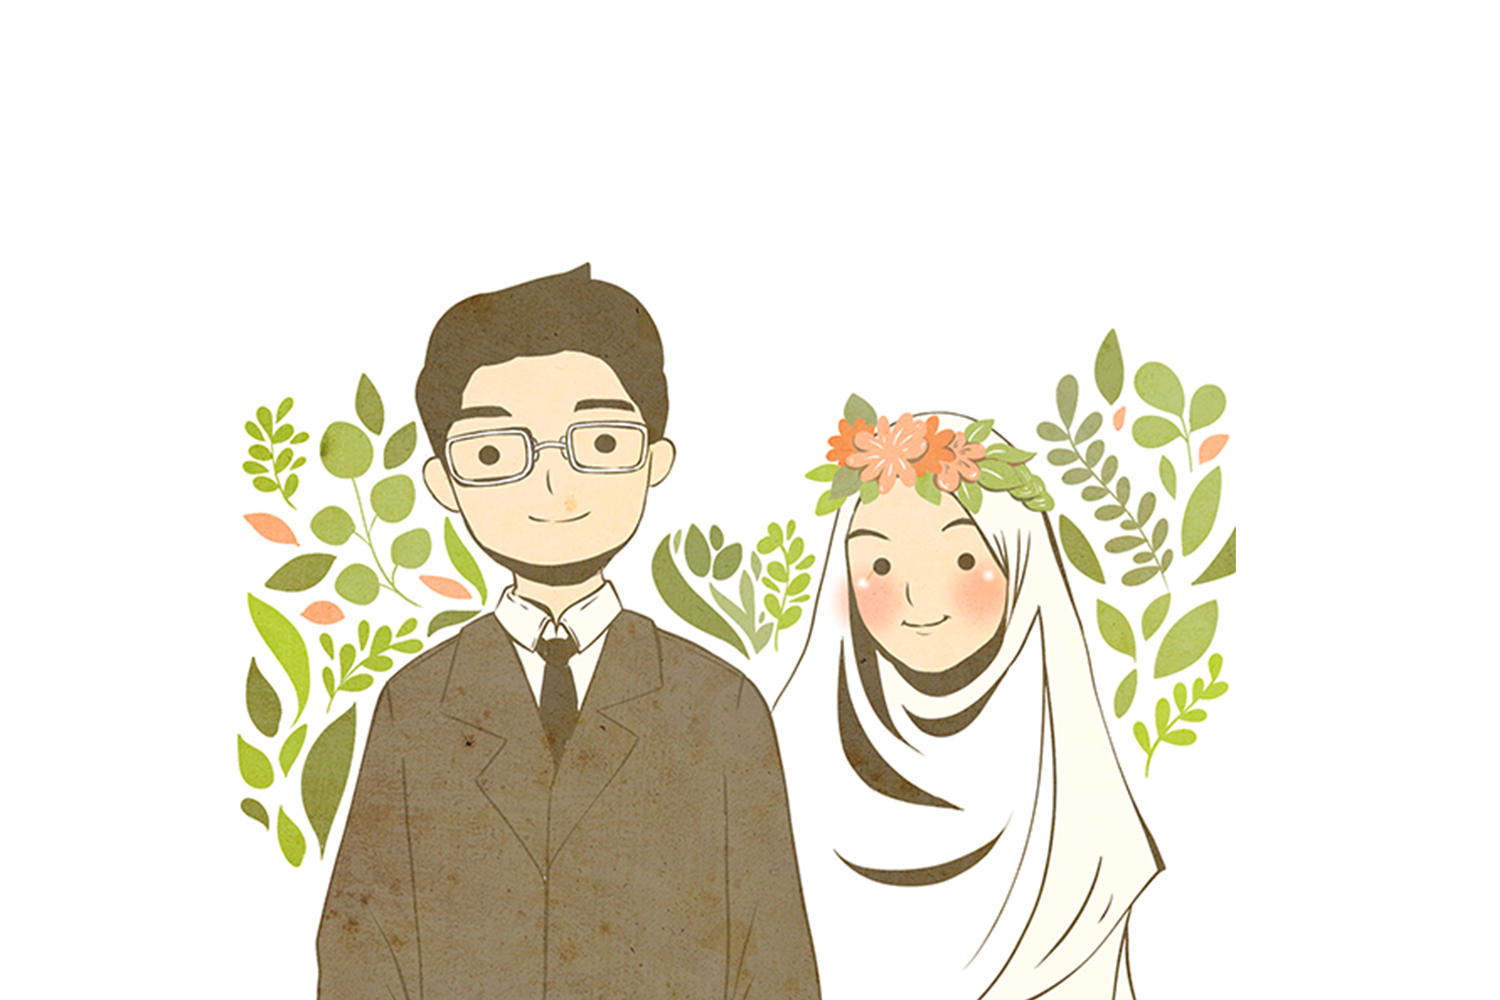
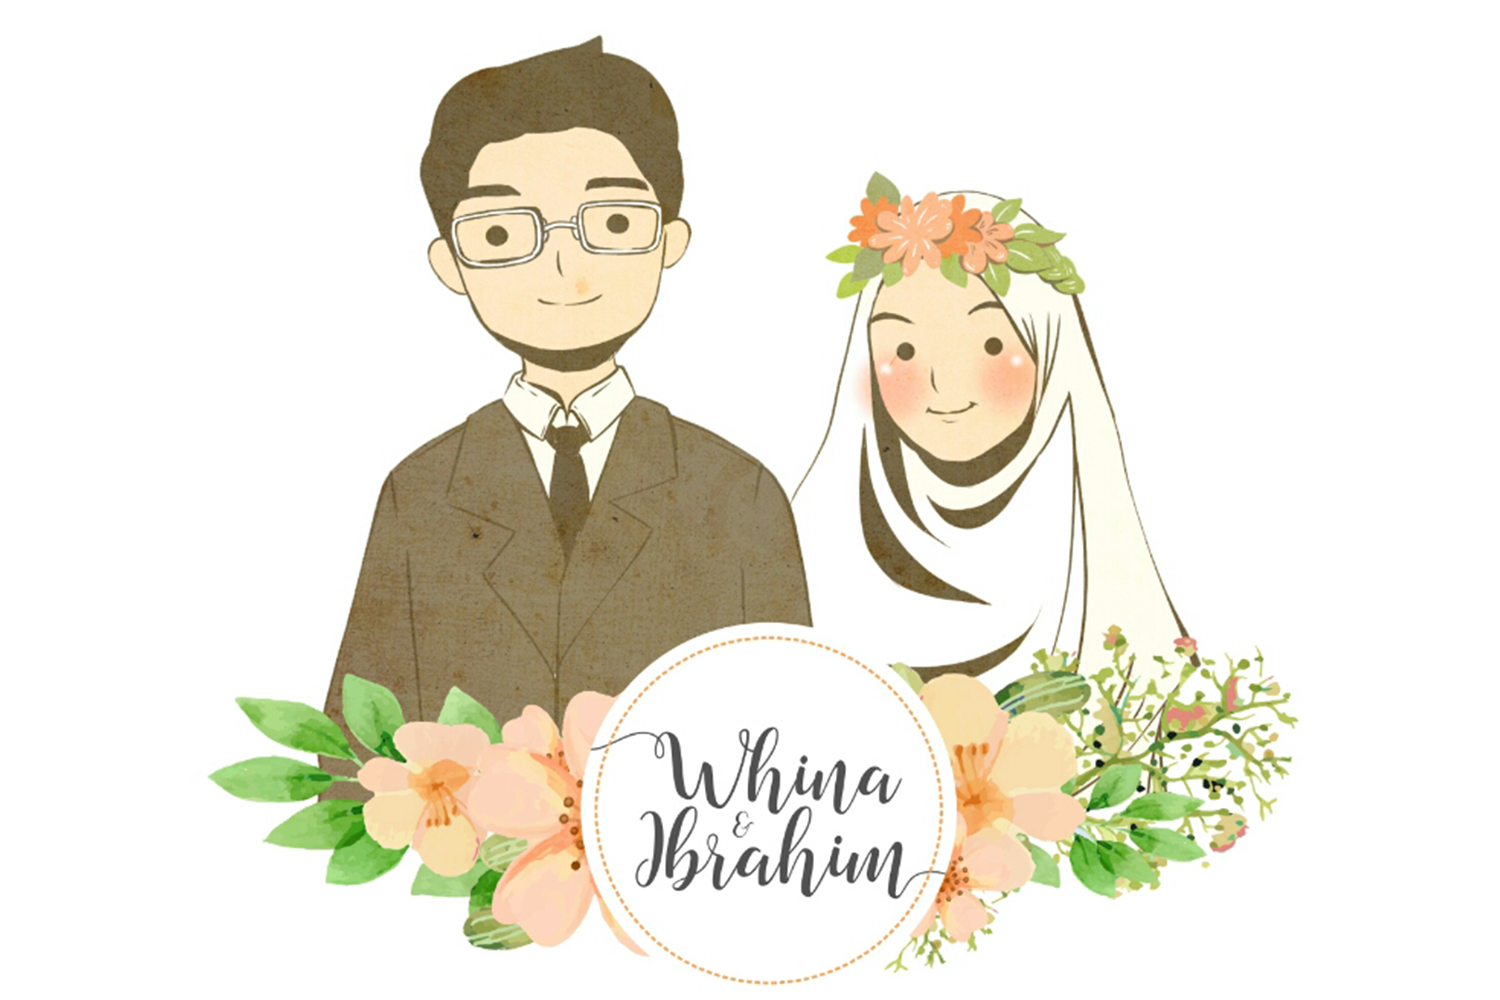
revise revise revise

diff --git a/index.html b/index.html
@@ -7,9 +7,9 @@
   <meta http-equiv="X-UA-Compatible" content="IE=edge">
   <title>Whina &#9829; Ibrahim</title>
   <meta name="viewport" content="width=device-width, initial-scale=1">
-  <meta name="description" content="Free HTML5 Template by FREEHTML5.CO" />
-  <meta name="keywords" content="free html5, free template, free bootstrap, html5, css3, mobile first, responsive" />
-  <meta name="author" content="FREEHTML5.CO" />
+  <meta name="description" content="Pernikahan Winna dan Ibrahim" />
+  <meta name="keywords" content="story, gallery, testimonials, discover our stories" />
+  <meta name="author" content="Whina&Ibrahim" />
   <meta property="og:title" content=""/>
   <meta property="og:image" content=""/>
   <meta property="og:url" content=""/>
@@ -22,6 +22,7 @@
 
   <link href='https://fonts.googleapis.com/css?family=Work+Sans:400,300,600,400italic,700' rel='stylesheet' type='text/css'>
   <link href="https://fonts.googleapis.com/css?family=Sacramento" rel="stylesheet">
+  <link rel="icon" href="images/favicon.png">
   <link rel="stylesheet" href="css/animate.css">
   <!-- Icomoon Icon Fonts-->
   <link rel="stylesheet" href="css/icomoon.css">
@@ -73,7 +74,7 @@
 
 
 
-  <header id="fh5co-header" class="fh5co-cover" role="banner" style="background-image:url(images/01.png);background-repeat:no-repeat;background-size:contain;" data-stellar-background-ratio="0.5">
+  <header id="fh5co-header" class="fh5co-cover" role="banner" data-stellar-background-ratio="0.5">
     <div class="overlay"></div>
     <div class="container">
       <div class="row">
@@ -577,9 +578,9 @@
               <div class="alert-box success">Well noted! Terima kasih :)</div>
               <script>
               	$( "#success-btn" ).click(function() {
-				$( "div.success" ).fadeIn( 300 ).delay( 1500 ).fadeOut( 400 );
-				});
-			  </script>
+        				$( "div.success" ).fadeIn( 300 ).delay( 1500 ).fadeOut( 400 );
+        				});
+      			  </script>
             </div>
           </form>
         </div>

diff --git a/css/style.css b/css/style.css
@@ -878,6 +878,27 @@ form label {
     font-size: 30px;
   }
 }
+@media screen and (max-width: 1500px) {
+  #fh5co-header {
+    background-image: url(../images/01.png);
+    background-repeat:no-repeat;
+    background-size:contain;
+  }
+}
+@media screen and (max-width: 768px) {
+  #fh5co-header {
+    background-image: url(../images/02.png);
+    background-repeat:no-repeat;
+    background-size:contain;
+  }
+}
+@media screen and (max-width: 400px) {
+  #fh5co-header {
+    background-image: url(../images/03.png);
+    background-repeat:no-repeat;
+    background-size:contain;
+  }
+}
 #fh5co-header .display-tc h2,
 #fh5co-counter .display-tc h2,
 .fh5co-cover .display-tc h2 {
@@ -1602,6 +1623,18 @@ form label {
 .fh5co-nav-toggle:hover, .fh5co-nav-toggle:focus, .fh5co-nav-toggle:active {
   outline: none;
   border-bottom: none !important;
+}
+.fh5co-nav-toggle a {
+  font-size: 14px;
+  padding: 30px 10px;
+  text-transform: uppercase;
+  color: rgba(255, 255, 255, 0.5);
+  -webkit-transition: 0.5s;
+  -o-transition: 0.5s;
+  transition: 0.5s;
+}
+.fh5co-nav-toggle a:hover, .fh5co-nav ul li a:focus, .fh5co-nav ul li a:active {
+  color: white;
 }
 .fh5co-nav-toggle i {
   position: relative;
